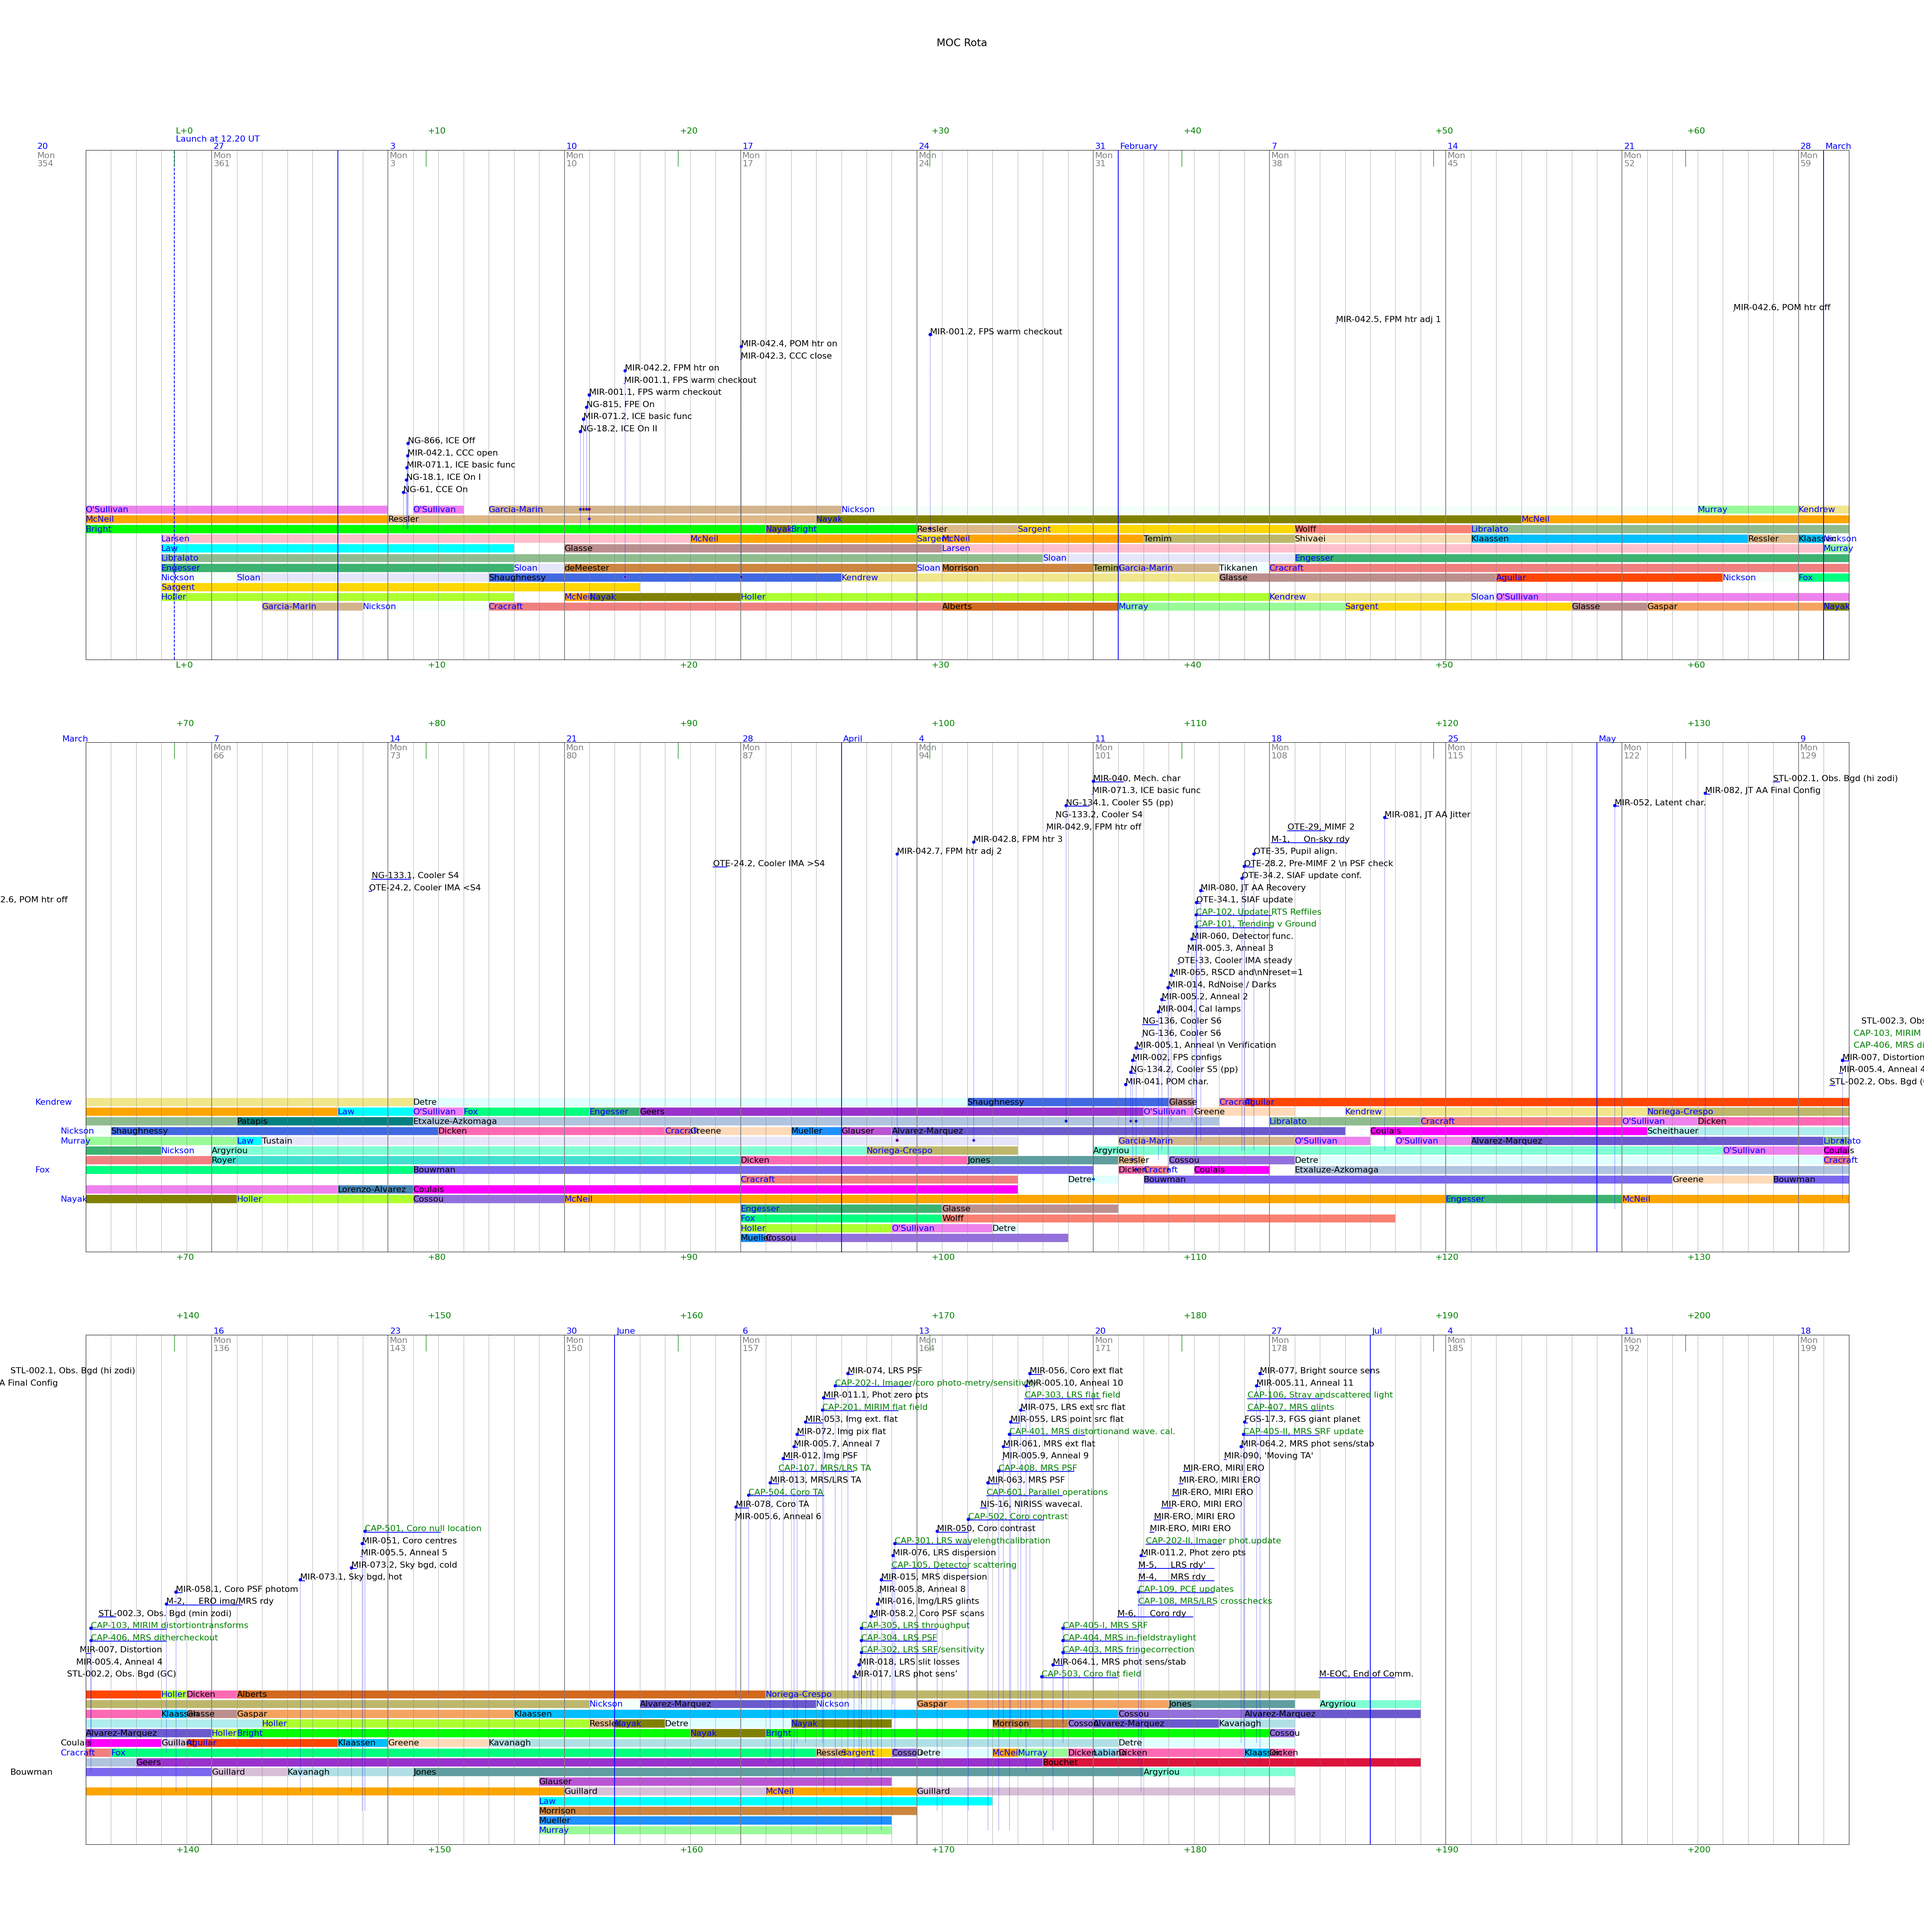
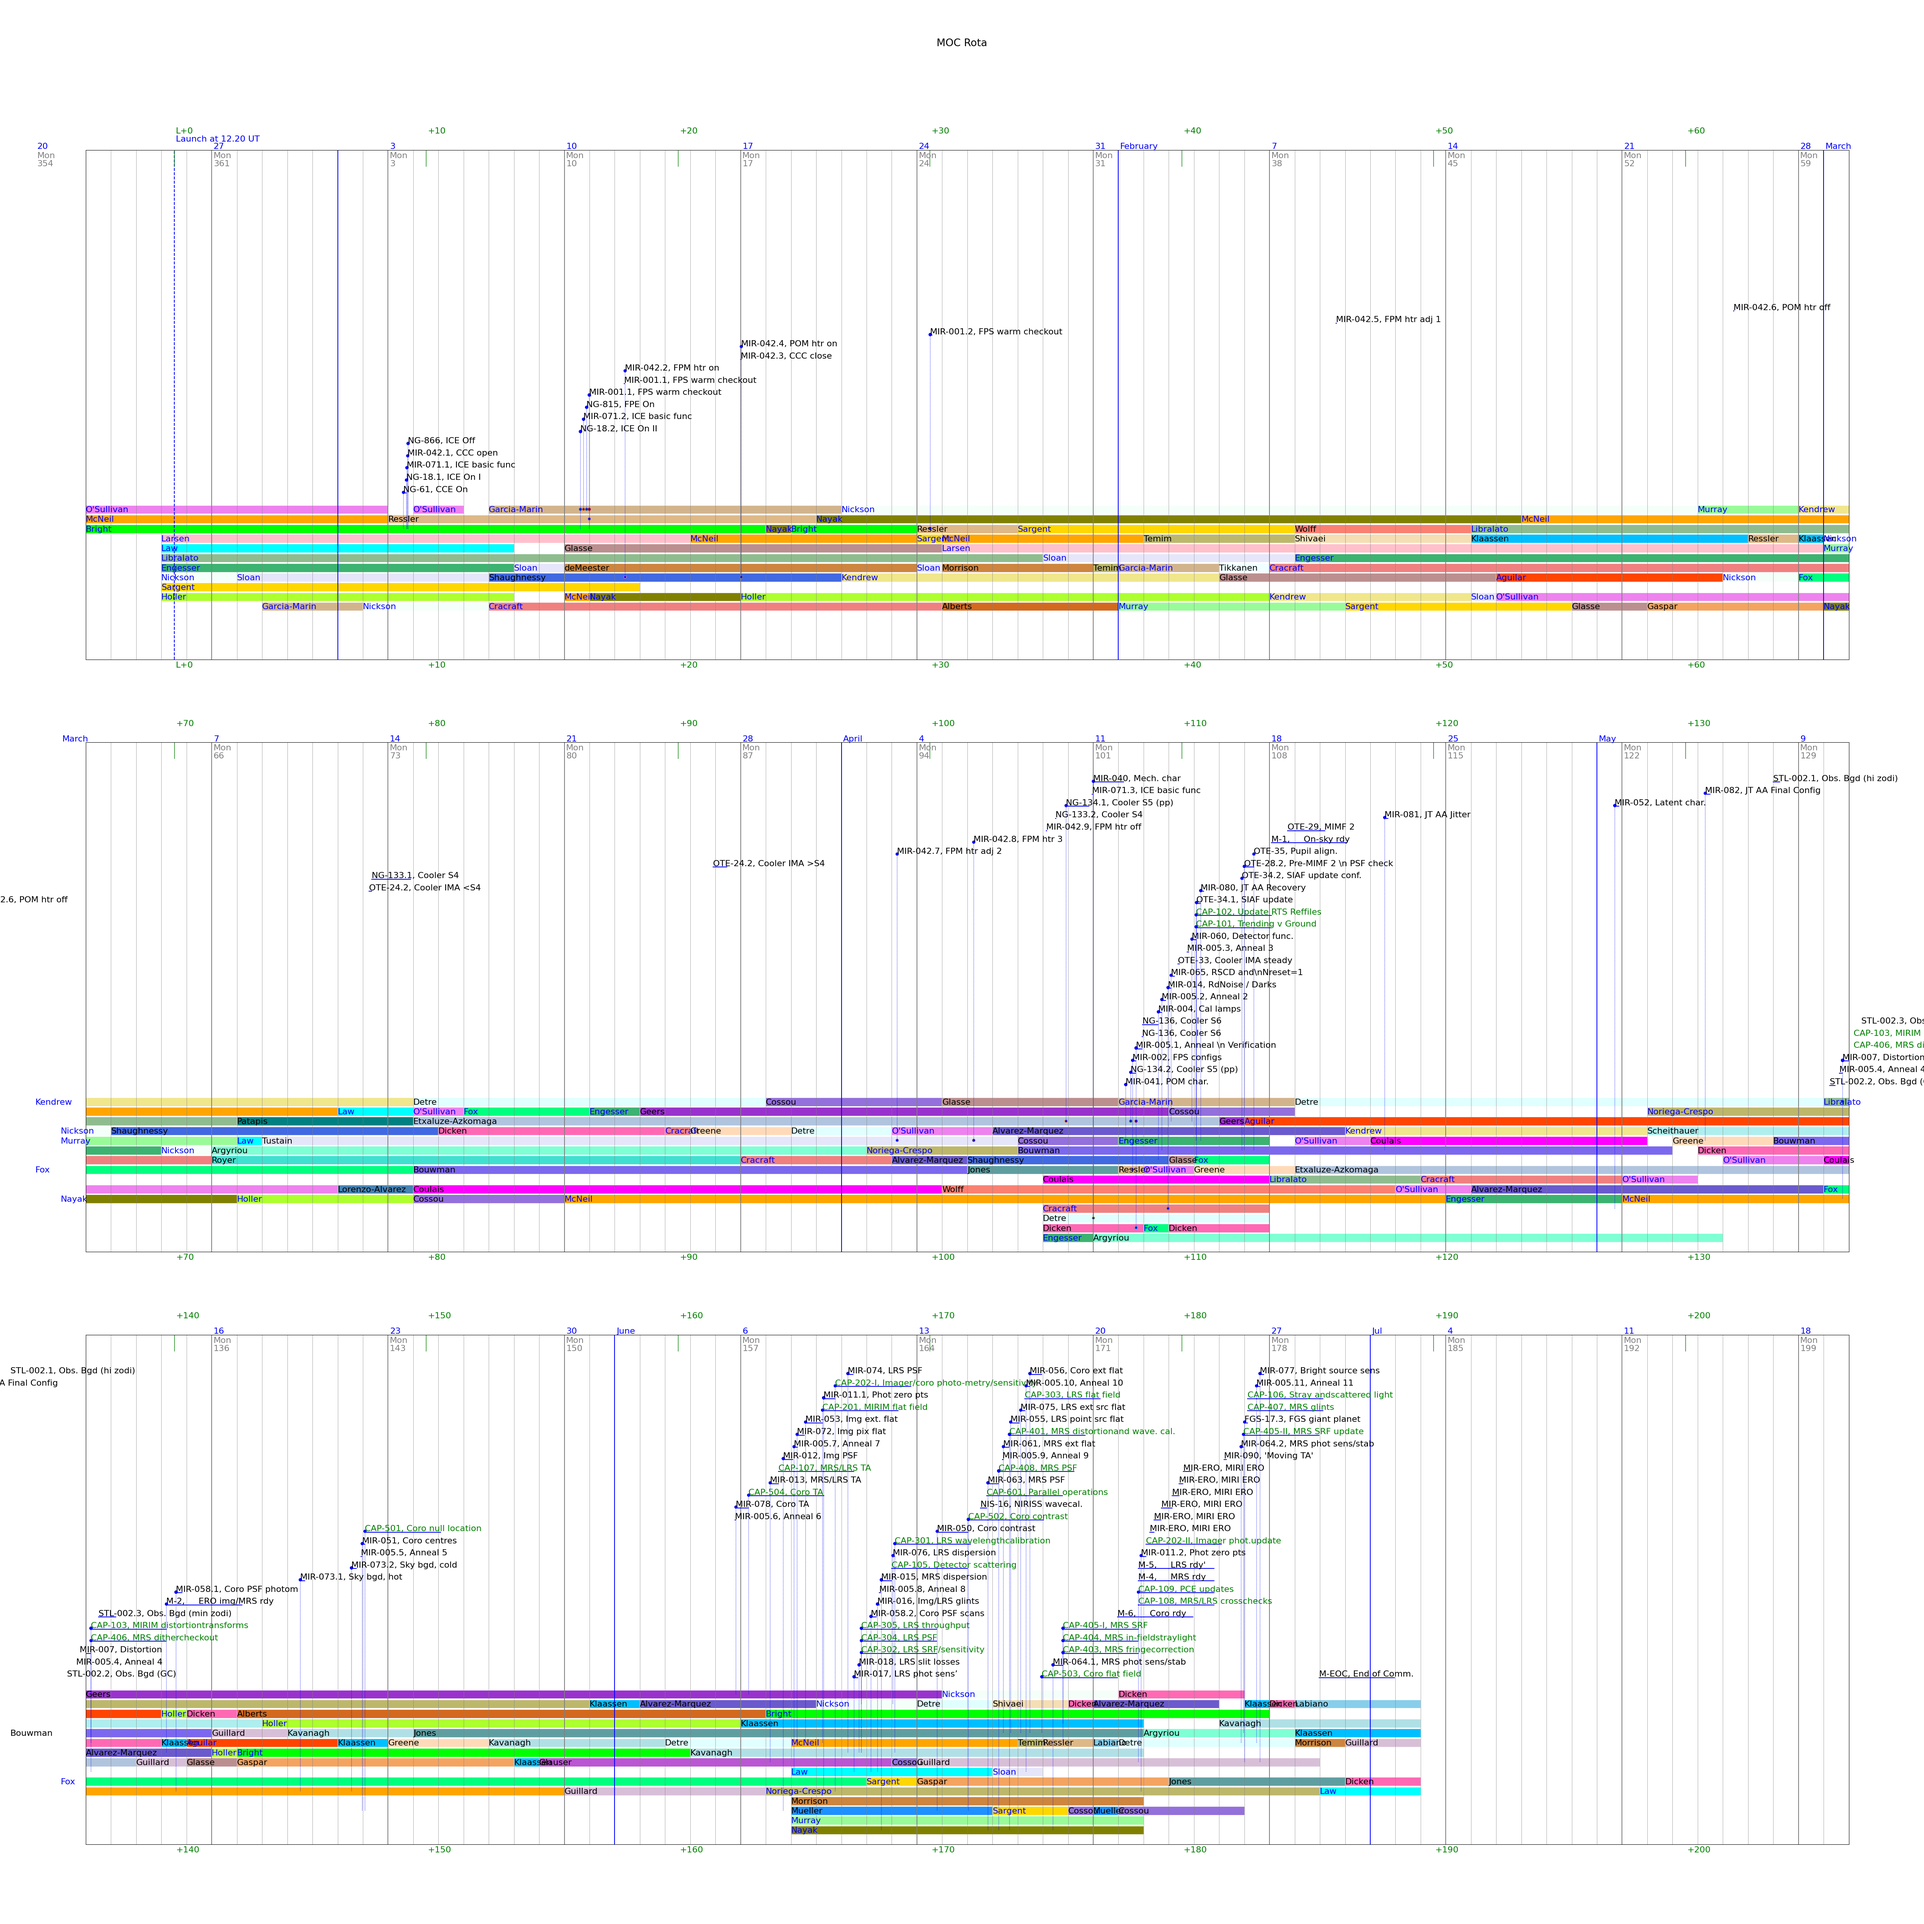
13/1/22 - Moved peak staffing periods later by 10 days to match peak CAR density

Changed region(s): [[0.0312, 0.8736, 0.7488, 0.9672], [0.3744, 0.5616, 0.9672, 0.6552]]

diff --git a/source/shift_plan.py b/source/shift_plan.py
@@ -48,7 +48,7 @@ class ShiftPlan:
         n_slots_max = 15
         n_slots_nominal = 10                                            # More slots for peak stress
         daily_slot_quota = np.full((n_days), n_slots_nominal)           # Count of slots on each day
-        unusual_slots = [(-6, -1, 3), (3, 18, 11), (93, 103, 15), (155, 168, 15), (185, 190, 3)]     # L+a L+b nshifts
+        unusual_slots = [(-6, -1, 3), (3, 18, 11), (105, 113, 15), (165, 178, 15), (195, 200, 3)]     # L+a L+b nshifts
         for uslot in unusual_slots:
             col1 = uslot[0] - ShiftPlan.start_md
             col2 = uslot[1] - ShiftPlan.start_md
